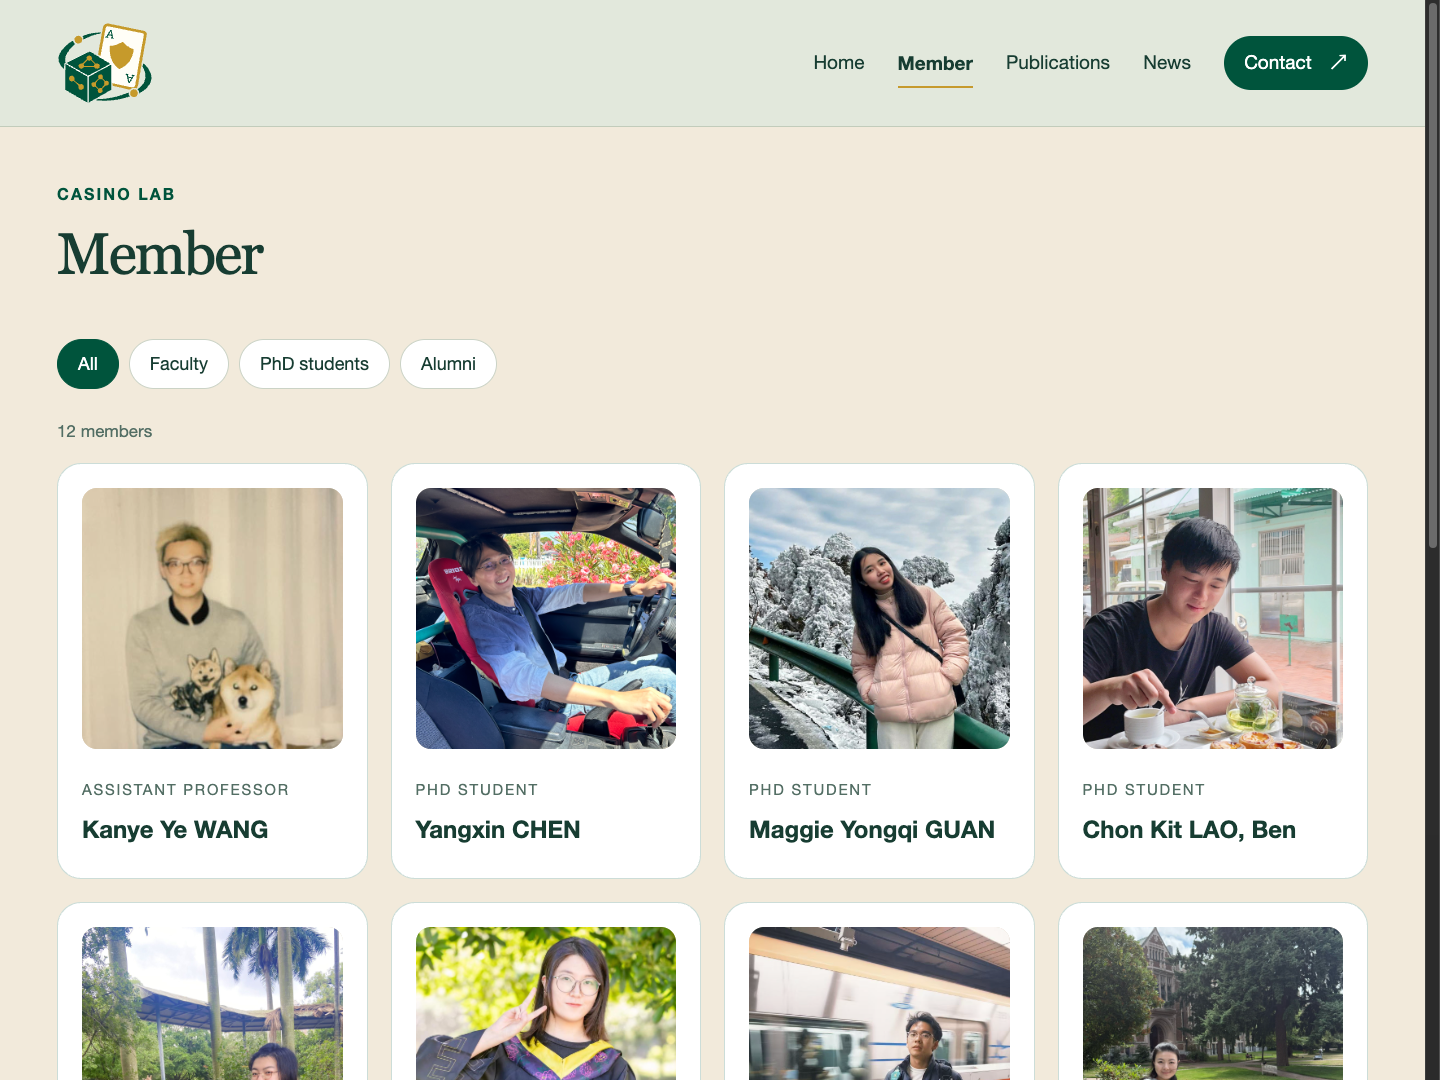
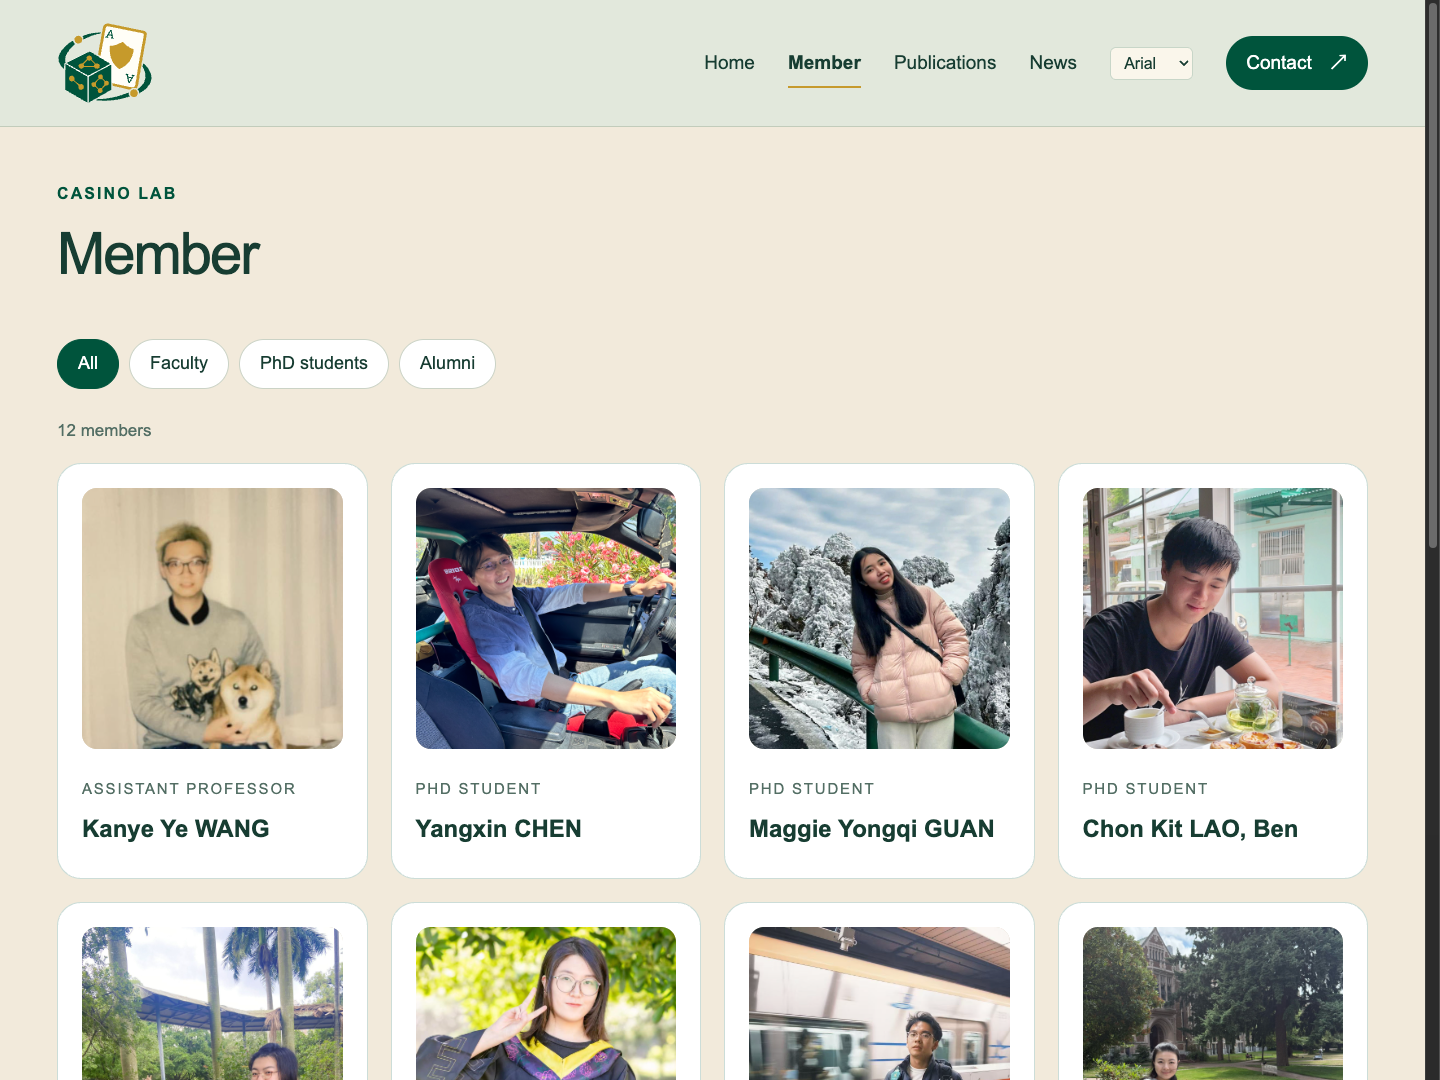
Update Site source

diff --git a/dist/lab.js b/dist/lab.js
@@ -2,6 +2,13 @@ import { Member, Paper } from './models.js';
 
 const content = document.querySelector('#content');
 const dialog = document.querySelector('#detail-dialog');
+const fontPreview = document.querySelector('#font-preview');
+try { fontPreview.value = localStorage.getItem('casino-font') === 'times' ? 'times' : 'arial'; } catch {}
+document.documentElement.dataset.font = fontPreview.value;
+fontPreview.addEventListener('change', () => {
+  document.documentElement.dataset.font = fontPreview.value;
+  try { localStorage.setItem('casino-font', fontPreview.value); } catch {}
+});
 let data, previousFocus, galleryIndex=0;
 const esc = value => String(value ?? '').replace(/[&<>"']/g, c => ({'&':'&amp;','<':'&lt;','>':'&gt;','"':'&quot;',"'":'&#39;'}[c]));
 const label = value => ({faculty:'Faculty',phd_student:'PhD students',masters_student:'Master’s students',research_assistant:'Research assistants',postdoc:'Postdocs',undergraduate:'Undergraduates',visiting_researcher:'Visitors',conference:'Conference',journal:'Journal',workshop:'Workshop',preprint:'Preprint',book_chapter:'Book chapter',thesis:'Thesis',other:'Other',lab_news:'Lab news',lab_life:'Lab life',publication:'Publication',event:'Event',award:'Award'}[value] || value);
@@ -64,9 +71,8 @@ function home() {
   const selected=s.featuredPublicationIds.map(id=>data.publications.find(p=>p.id===id)).filter(Boolean);
   const latest=(selected.length?selected:[...data.publications].sort((a,b)=>b.year-a.year)).slice(0,3);
   content.innerHTML=`<section class="hm-hero"><div class="hm-copy"><p class="eyebrow">${esc(s.institution)} · Research group</p><h1 class="hero-wordmark">${image(s.wordmarkAssetId,'wordmark',true)}<span class="sr-only">${esc(s.name)}</span></h1><h2 class="lab-full-name">${fullName(s.fullName)}</h2><p class="hm-summary">${esc(s.introduction)}</p><div class="hm-actions"><a href="#publications">Our publications</a><a href="#member">Meet the group ↗</a></div></div><div id="home-gallery" class="hm-gallery">${photoStack()}</div></section>
-    <section class="hm-about"><div><p class="eyebrow">ABOUT THE LAB</p><h2>Research at<br>${esc(s.institution)}</h2></div><div class="about-text">${about}</div></section>
-    <section class="hm-stories"><header class="hm-stories-title"><p class="eyebrow">FROM THE LAB</p><h2>Recent publications</h2></header><div class="hm-story-list">${latest.map(p=>`<article><small>${p.year} · ${esc(p.venue.shortName || label(p.type))}</small><h3>${paperLink(p)}</h3></article>`).join('')}</div><a class="text-link" href="#publications">View all ${data.publications.length} publications ↗</a></section>
-    <section class="hm-join-section"><h2>Contact</h2><p>Get in touch about our research, collaboration, and opportunities.</p><a class="button" href="#contact">Contact the lab ↗</a></section>`;
+    <section class="hm-about"><div><p class="eyebrow">ABOUT THE LAB</p><h2>Contact</h2><p class="recruiting-call">Are you looking for a PhD/RA position? We are currently recruiting, and our latest call is available <a href="https://crab.ye.wang/info" target="_blank" rel="noopener">here</a>.</p></div><div class="about-text">${about}</div></section>
+    <section class="hm-stories"><header class="hm-stories-title"><p class="eyebrow">FROM THE LAB</p><h2>Recent publications</h2></header><div class="hm-story-list">${latest.map(p=>`<article><small>${p.year} · ${esc(p.venue.shortName || label(p.type))}</small><h3>${paperLink(p)}</h3></article>`).join('')}</div><a class="text-link" href="#publications">View all ${data.publications.length} publications ↗</a></section>`;
 }
 
 function people(id, params) {
@@ -90,7 +96,7 @@ function people(id, params) {
 function publications(id, params) {
   if(id){
     const p=data.publications.find(p=>p.id===id||p.slug===id);if(!p)return notFound();
-    content.innerHTML=`<a class="breadcrumb" href="#publications">← All publications</a>${heading(p.title,`${p.year} · ${p.venue.name}`,label(p.type))}<article class="prose"><p>${authors(p)}</p>${p.abstract?`<h2>Abstract</h2>${prose(p.abstract)}`:''}<div class="paper-actions">${paperActions(p)}</div>${p.sourceUrl?`<p class="source-note">${link(p.sourceUrl,'Original publication listing')}</p>`:''}</article>`;return;
+    content.innerHTML=`<a class="breadcrumb" href="#publications">← All publications</a>${heading(p.title,`${p.year} · ${p.venue.name}`,label(p.type))}<article class="prose"><p>${authors(p)}</p>${p.abstract?`<h2>Abstract</h2>${prose(p.abstract)}`:''}<div class="paper-actions">${paperActions(p)}</div></article>`;return;
   }
   const years=[...new Set(data.publications.map(p=>p.year))].sort((a,b)=>b-a);
   const types=[...new Set(data.publications.map(p=>p.type))];

diff --git a/dist/gold.css b/dist/gold.css
@@ -24,3 +24,11 @@ html{scroll-padding-top:140px}.site-header{position:sticky;top:0;z-index:40;box-
 .site-header{background:#e2e8dc}.brand{display:inline-flex;align-items:center;justify-content:center;justify-self:start}.brand img{display:block}.gallery-arrow{position:absolute;top:50%;z-index:15;transform:translateY(-50%);display:grid;place-items:center;width:54px;height:54px;padding:0;border:3px solid #faf6eb;border-radius:50%;background:var(--green);color:#fff;box-shadow:0 4px 16px rgba(0,54,39,.2)}.gallery-arrow svg{width:24px;height:24px;fill:none;stroke:currentColor;stroke-width:2.5;stroke-linecap:round;stroke-linejoin:round}.gallery-arrow:hover{background:#173d32;box-shadow:0 4px 18px rgba(0,54,39,.3)}.gallery-arrow:focus-visible{outline:3px solid var(--gold);outline-offset:3px}.gallery-prev{left:-6px}.gallery-next{right:6px}.stack-sheet{transition:transform .36s ease}
 @media(max-width:600px){.gallery-arrow{width:44px;height:44px}.gallery-arrow svg{width:22px;height:22px}.gallery-prev{left:-3px}.gallery-next{right:5px}}
 @media(prefers-reduced-motion:reduce){.stack-sheet{transition:none}}
+
+/* Preview one font family across the entire lab site, including controls. */
+:root{--site-font:Arial,Helvetica,sans-serif}
+:root[data-font=times]{--site-font:"Times New Roman",Times,serif}
+:root *{font-family:var(--site-font)!important}
+#font-preview{width:auto;min-width:0;padding:6px 9px;border:1px solid var(--line);border-radius:6px;background:var(--white);color:var(--ink);font-size:16px}
+.hm-about .recruiting-call{margin-top:18px}
+@media(max-width:900px){#font-preview{align-self:flex-start;margin:6px 10px}}

diff --git a/dist/lab.html b/dist/lab.html
@@ -18,7 +18,9 @@
       <a class="brand" href="#home" aria-label="CASINO Lab home"><img src="./assets/casino-symbol.svg" alt="CASINO emblem" width="96" height="84"></a>
       <button id="menu-toggle" class="menu-toggle" aria-expanded="false" aria-controls="navigation">Menu <span aria-hidden="true">☰</span></button>
       <nav id="navigation" aria-label="Main navigation">
-        <a href="#home">Home</a><a href="#member">Member</a><a href="#publications">Publications</a><a href="#news">News</a><a class="join-link" href="#contact">Contact <span aria-hidden="true">↗</span></a>
+        <a href="#home">Home</a><a href="#member">Member</a><a href="#publications">Publications</a><a href="#news">News</a>
+        <select id="font-preview" aria-label="Preview site font"><option value="arial">Arial</option><option value="times" title="Times New Roman">Times</option></select>
+        <a class="join-link" href="#contact">Contact <span aria-hidden="true">↗</span></a>
       </nav>
     </div>
   </header>

diff --git a/CONTENT-MIGRATION.md b/CONTENT-MIGRATION.md
@@ -32,7 +32,7 @@ The live HTML was checked on 4 November 2026. The source pages are:
 - [Applicant information](https://crab.ye.wang/info): UM/external applicant requirements, timeline, program structure and funding guidance.
 - [Principal investigator](https://www.ye.wang/): biography and contact address.
 
-Current branding is CASINO; the former CRAB name remains in the historical description. Main publication-page metadata takes precedence over duplicate entries on member pages. Author order and author spelling are preserved; recognized name variants link to a stable person ID. Venue type is normalized to conference, journal or workshop. Publication dates, DOI, abstracts, contributions, publication status, PDF links and BibTeX absent from the source remain null.
+Current branding is CASINO. Legacy source URLs are retained as provenance metadata; the only visitor-facing link to the old lab site is the homepage recruitment call. Main publication-page metadata takes precedence over duplicate entries on member pages. Author order and author spelling are preserved; recognized name variants link to a stable person ID. Venue type is normalized to conference, journal or workshop. Publication dates, DOI, abstracts, contributions, publication status, PDF links and BibTeX absent from the source remain null.
 
 Research areas retain the source's two categories. Member-area associations are inferred from their explicitly listed interests. The source does not assign research areas to each paper, so `researchAreaIds` remains empty for papers; fill it after lab review. The frontend displays topic filters once tagged papers exist. The source has no dated news feed, so `news` is empty; the News & lab life page displays the first original group photograph.
 

diff --git a/SITE-FUNCTIONS.md b/SITE-FUNCTIONS.md
@@ -1,5 +1,7 @@
 # CASINO website prototype
 
+The navigation's Arial / Times control previews one font family across the lab site. It remembers the selection in the browser; the SVG logos are unchanged. The homepage Contact section includes the sole link to the former lab site, for the current recruitment call.
+
 The selected third direction opens `dist/lab.html`, with its original warm-paper, green and gold palette, larger typography and a symbol-only top-left logo. Homepage and footer use the CASINO wordmark. The website uses English interface text and loads `dist/data/lab.json` over HTTP.
 
 | Page | Implemented interactions |
